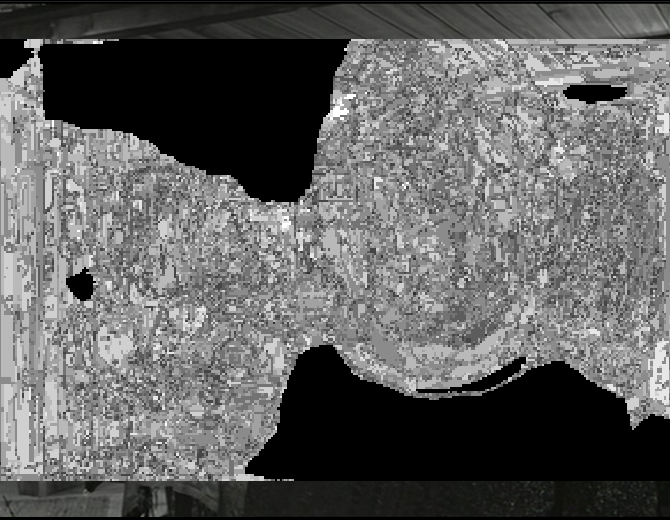
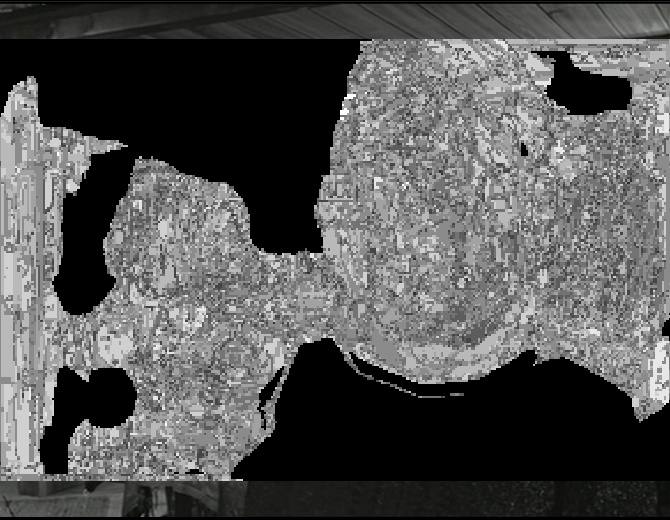
contour balanced

diff --git a/main.cpp b/main.cpp
@@ -2432,7 +2432,7 @@ int main(int argc, char *argv[])
 			rr[n-1] = 0;
 			std::vector<std::size_t> lengthResults(sizeY*sizeX);
 			std::vector<double> likelihoodResults(sizeY*sizeX);
-			std::vector<std::tuple<std::size_t,double,std::size_t,std::size_t,std::size_t>> actsPotsCoord(sizeY*sizeX);
+			std::vector<std::tuple<std::size_t,double,std::size_t,std::size_t,std::size_t,std::size_t>> actsPotsCoord(sizeY*sizeX);
 			std::vector<std::thread> threads;
 			threads.reserve(threadCount);
 			mark = Clock::now();
@@ -2448,6 +2448,16 @@ int main(int argc, char *argv[])
 								if (z % threadCount == t)
 								{
 									Record recordSub(record,size,size,x,y);
+									std::size_t average = 256;
+									if (valencyBalanced)
+									{
+										auto sizeSub = recordSub.arr->size();
+										auto arrSub = recordSub.arr->data();
+										average = 0;
+										for (std::size_t j = 0; j < sizeSub; j++)
+											average += arrSub[j];	
+										average /= sizeSub;			
+									}
 									Record recordValent = valencyFixed ? recordSub.valentFixed(valency,valencyBalanced) : recordSub.valent(valency,valencyFactor);
 									std::size_t slice = 0;
 									if (entropyMinimum <= 0.0 || recordValent.entropy() >=entropyMinimum)
@@ -2478,9 +2488,9 @@ int main(int argc, char *argv[])
 									likelihoodResults[z] = likelihood;
 									lengthResults[z] = length;
 									if (slice)
-										actsPotsCoord[z] = std::make_tuple(length,likelihood,x,y,slice);
+										actsPotsCoord[z] = std::make_tuple(length,likelihood,x,y,slice,average);
 									else
-										actsPotsCoord[z] = std::make_tuple(0,-INFINITY,x,y,0);
+										actsPotsCoord[z] = std::make_tuple(0,-INFINITY,x,y,0,average);
 								}
 					}, t));
 			for (auto& t : threads)
@@ -2590,10 +2600,11 @@ int main(int argc, char *argv[])
 				{
 					auto x = std::get<2>(t);
 					auto y = std::get<3>(t);
+					auto average = std::get<5>(t);
 					auto posX = centreX + (interval * x - scaleX / 2.0) * captureHeight / captureWidth;
 					auto posY = centreY + interval * y - scaleY / 2.0;
 					QPointF point(posX*captureWidth,posY*captureHeight);
-					auto rep = reps[slice].image(1,valency).scaledToHeight(scale*captureHeight);
+					auto rep = reps[slice].image(1,valency,average).scaledToHeight(scale*captureHeight);
 					representationPainter.drawImage(point,rep);
 				}
 			}

diff --git a/dev.cpp b/dev.cpp
@@ -151,21 +151,14 @@ Record WBOT02::Record::valentFixed(std::size_t valency, bool balanced) const
 	if (valency && valency <= 128 && record.arr)
 	{
 		auto size = arr->size();
-		auto arr1 =  arr->data();
+		auto arr1 = arr->data();
 		record.arr = std::make_shared<std::vector<unsigned char>>(size,no_init_alloc<unsigned char>());
 		auto arr2 = record.arr->data();
 		if (balanced)
 		{
 			std::size_t av = 0;
-			unsigned char max = 0;
-			std::size_t min = 255;
 			for (std::size_t j = 0; j < size; j++)
-			{
-				auto x = arr1[j];
-				av += x;
-				if (x<min) min = x;
-				if (x>max) max = x;
-			}
+				av += arr1[j];
 			av /= size;
 			if (av < 127)
 			{
@@ -528,7 +521,7 @@ double WBOT02::Representation::entropy() const
 	return e;
 }
 
-QImage WBOT02::Representation::image(std::size_t multiplier, std::size_t valency) const
+QImage WBOT02::Representation::image(std::size_t multiplier, std::size_t valency, std::size_t average) const
 {
 	QImage image(sizeX*multiplier, sizeY*multiplier, QImage::Format_RGB32);
 	if (arr && count && multiplier)
@@ -540,6 +533,22 @@ QImage WBOT02::Representation::image(std::size_t multiplier, std::size_t valency
 		for (std::size_t k = 0; k < size; k++)
 		{
 			auto v = arr1[k] * factor / count + offset;
+			if (average > 127 && average < 256)
+			{
+				std::size_t d = average-127;
+				if (v+d<256)
+					v += d;
+				else
+					v = 255;
+			}
+			else if (average < 127)
+			{
+				std::size_t d = 127-average;
+				if (v>d)
+					v -= d;
+				else
+					v = 0;				
+			}
 			auto i = (k % sizeX) * multiplier;
 			auto j = (k / sizeX) * multiplier;
 			auto rgb = qRgb(v,v,v);

diff --git a/dev.h b/dev.h
@@ -130,7 +130,7 @@ namespace WBOT02
 			
 		double entropy() const;
 			
-		QImage image(std::size_t multiplier = 1, std::size_t valency = 0) const;
+		QImage image(std::size_t multiplier = 1, std::size_t valency = 0, std::size_t average = 256) const;
 		void add(const Record& record);
 		
 		double scaleX;
